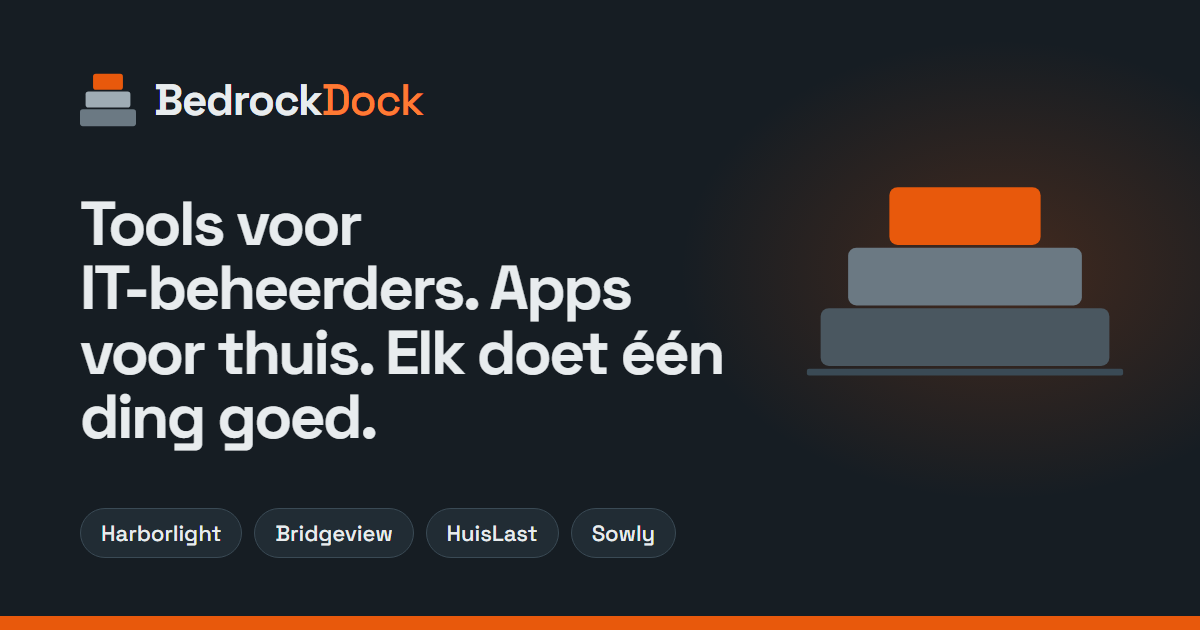
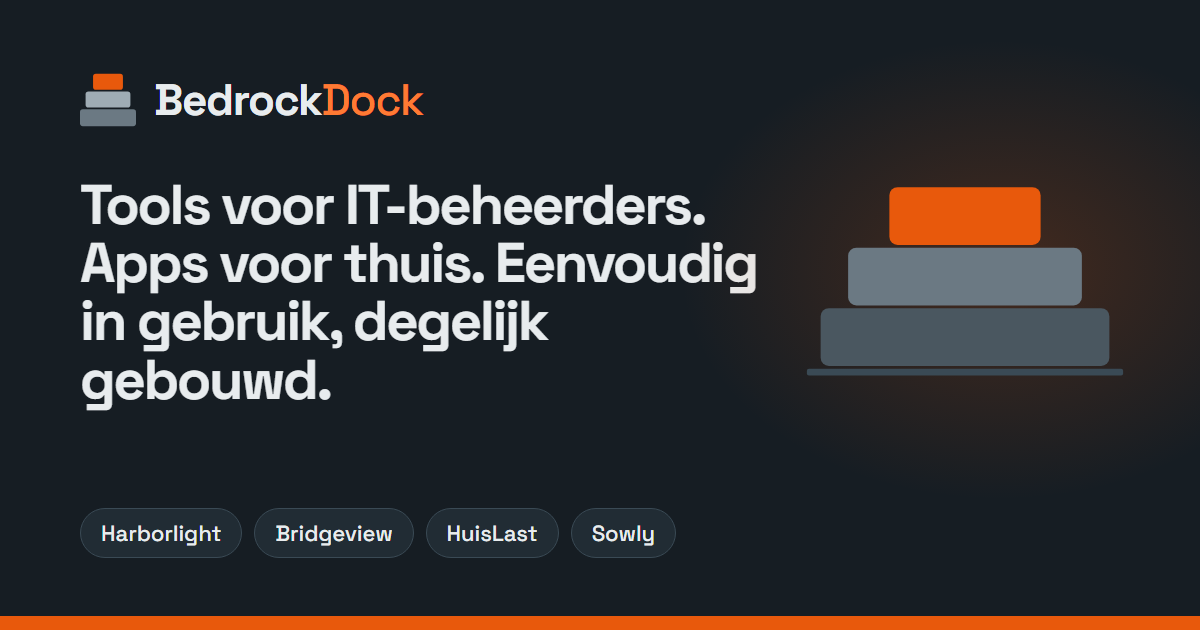
Reword hero headline so it does not read as "can only do one thing"

Changed region(s): [[0.0617, 0.2714, 0.6475, 0.7238]]

diff --git a/nl/index.html b/nl/index.html
@@ -441,7 +441,7 @@ footer .brand span { color: #FF8A4D; }
   <section class="hero">
     <div class="wrap">
       <div>
-        <h1 data-i18n="hero.h1">Tools voor IT-beheerders. Apps voor thuis. Elk doet één ding goed.</h1>
+        <h1 data-i18n="hero.h1">Tools voor IT-beheerders. Apps voor thuis. Eenvoudig in gebruik, degelijk gebouwd.</h1>
         <p class="lead" data-i18n="hero.lead">BedrockDock ontwikkelt zelf apps en tools: ze nemen een lastige keuze of een lastig moment uit handen en geven een uitkomst die klopt.</p>
         <div class="actions">
           <a class="btn" href="#werk" data-i18n="hero.cta1">Bekijk wat we maken</a>
@@ -910,7 +910,7 @@ footer .brand span { color: #FF8A4D; }
       'aria.top': 'BedrockDock, naar boven', 'aria.menu': 'Hoofdmenu',
       'hero.alt': 'Drie gestapelde lagen: rekenmodel, ontwerp en product, boven het water van een kade',
       'nav.apps': 'Voor thuis', 'nav.tools': 'Voor IT', 'nav.approach': 'Aanpak', 'nav.cta': 'Blijf op de hoogte',
-      'hero.h1': 'Tools voor IT-beheerders. Apps voor thuis. Elk doet één ding goed.',
+      'hero.h1': 'Tools voor IT-beheerders. Apps voor thuis. Eenvoudig in gebruik, degelijk gebouwd.',
       'hero.lead': 'BedrockDock ontwikkelt zelf apps en tools: ze nemen een lastige keuze of een lastig moment uit handen en geven een uitkomst die klopt.',
       'hero.cta1': 'Bekijk wat we maken', 'hero.cta2': 'Zo bouwen we',
       'hero.l1': 'Rekenmodel', 'hero.l2': 'Ontwerp',
@@ -1004,7 +1004,7 @@ footer .brand span { color: #FF8A4D; }
       'aria.top': 'BedrockDock, back to top', 'aria.menu': 'Main menu',
       'hero.alt': 'Three stacked layers: calculation model, design and product, above the water of a quay',
       'nav.apps': 'For home', 'nav.tools': 'For IT', 'nav.approach': 'Approach', 'nav.cta': 'Stay in the loop',
-      'hero.h1': 'Tools for IT admins. Apps for home. Each one does one thing well.',
+      'hero.h1': 'Tools for IT admins. Apps for home. Simple to use, solidly built.',
       'hero.lead': 'BedrockDock builds apps and tools of its own: they take a hard choice or a hard moment off your hands and give an answer you can trust.',
       'hero.cta1': 'See what we build', 'hero.cta2': 'How we build',
       'hero.l1': 'Calculation model', 'hero.l2': 'Design',

diff --git a/index.html b/index.html
@@ -440,7 +440,7 @@ footer .brand span { color: #FF8A4D; }
   <section class="hero">
     <div class="wrap">
       <div>
-        <h1 data-i18n="hero.h1">Tools for IT admins. Apps for home. Each one does one thing well.</h1>
+        <h1 data-i18n="hero.h1">Tools for IT admins. Apps for home. Simple to use, solidly built.</h1>
         <p class="lead" data-i18n="hero.lead">BedrockDock builds apps and tools of its own: they take a hard choice or a hard moment off your hands and give an answer you can trust.</p>
         <div class="actions">
           <a class="btn" href="#werk" data-i18n="hero.cta1">See what we build</a>
@@ -909,7 +909,7 @@ footer .brand span { color: #FF8A4D; }
       'aria.top': 'BedrockDock, naar boven', 'aria.menu': 'Hoofdmenu',
       'hero.alt': 'Drie gestapelde lagen: rekenmodel, ontwerp en product, boven het water van een kade',
       'nav.apps': 'Voor thuis', 'nav.tools': 'Voor IT', 'nav.approach': 'Aanpak', 'nav.cta': 'Blijf op de hoogte',
-      'hero.h1': 'Tools voor IT-beheerders. Apps voor thuis. Elk doet één ding goed.',
+      'hero.h1': 'Tools voor IT-beheerders. Apps voor thuis. Eenvoudig in gebruik, degelijk gebouwd.',
       'hero.lead': 'BedrockDock ontwikkelt zelf apps en tools: ze nemen een lastige keuze of een lastig moment uit handen en geven een uitkomst die klopt.',
       'hero.cta1': 'Bekijk wat we maken', 'hero.cta2': 'Zo bouwen we',
       'hero.l1': 'Rekenmodel', 'hero.l2': 'Ontwerp',
@@ -1003,7 +1003,7 @@ footer .brand span { color: #FF8A4D; }
       'aria.top': 'BedrockDock, back to top', 'aria.menu': 'Main menu',
       'hero.alt': 'Three stacked layers: calculation model, design and product, above the water of a quay',
       'nav.apps': 'For home', 'nav.tools': 'For IT', 'nav.approach': 'Approach', 'nav.cta': 'Stay in the loop',
-      'hero.h1': 'Tools for IT admins. Apps for home. Each one does one thing well.',
+      'hero.h1': 'Tools for IT admins. Apps for home. Simple to use, solidly built.',
       'hero.lead': 'BedrockDock builds apps and tools of its own: they take a hard choice or a hard moment off your hands and give an answer you can trust.',
       'hero.cta1': 'See what we build', 'hero.cta2': 'How we build',
       'hero.l1': 'Calculation model', 'hero.l2': 'Design',
